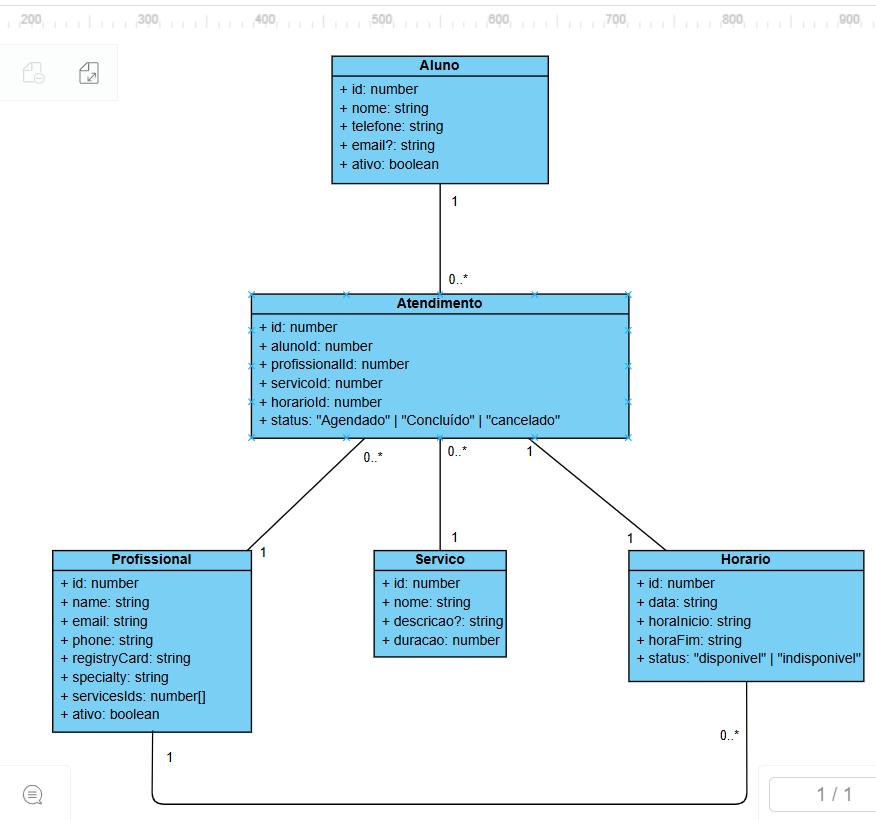
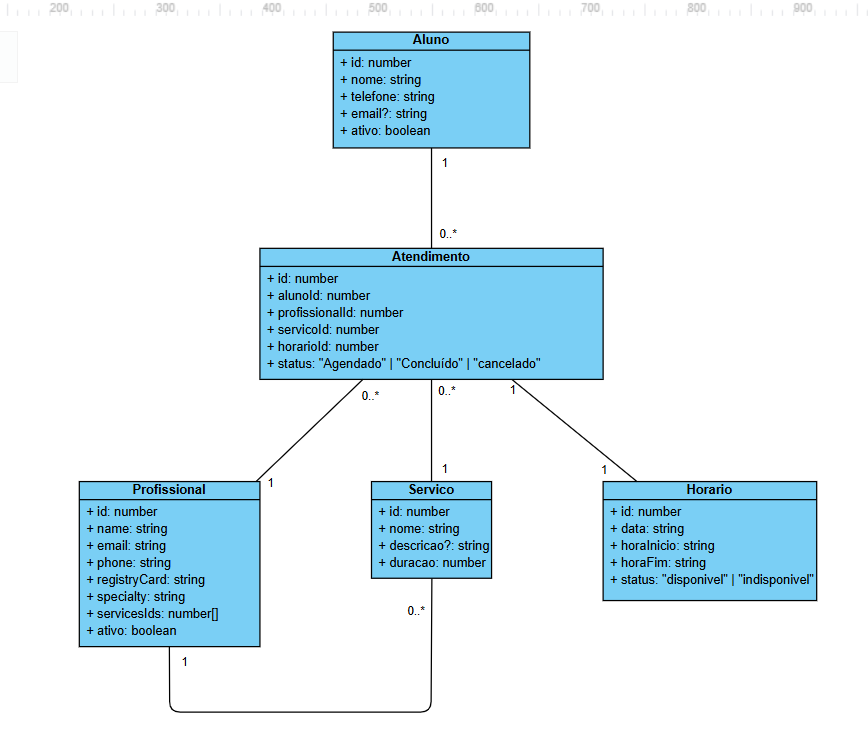
preparando api para deploy no render

diff --git a/api-clinica-escola/src/main.ts b/api-clinica-escola/src/main.ts
@@ -9,8 +9,14 @@ async function bootstrap() {
 
   app.use(cookieParser());
 
+  const defaultCorsOrigins = 'http://localhost:5500,http://127.0.0.1:5500';
+  const corsOrigins = (process.env.CORS_ORIGIN ?? defaultCorsOrigins)
+    .split(',')
+    .map((origin) => origin.trim())
+    .filter(Boolean);
+
   app.enableCors({
-    origin: ['http://localhost:5500', 'http://127.0.0.1:5500'],
+    origin: corsOrigins, 
     credentials: true,
   });
    
@@ -37,7 +43,9 @@ async function bootstrap() {
   const document = SwaggerModule.createDocument(app, config);
   SwaggerModule.setup('api', app, document); 
 
-  await app.listen(3000);
+  const port = Number(process.env.PORT ?? 3000);
+
+  await app.listen(port, '0.0.0.0');
 }
 
 bootstrap();

diff --git a/api-clinica-escola/src/app.controller.ts b/api-clinica-escola/src/app.controller.ts
@@ -1,12 +1,18 @@
 import { Controller, Get } from '@nestjs/common';
 import { AppService } from './app.service';
 
-// Controlador principal da aplicação, responsável por gerenciar os endpoints gerais
 @Controller()
 export class AppController {
   constructor(private readonly appService: AppService) {}
 
-  // Endpoint para retornar uma mensagem de saudação, utilizando o serviço principal da aplicação
+  @Get('health')
+  health() {
+    return {
+      status: 'ok',
+      timestamp: new Date().toISOString(),
+    };
+  }
+
   @Get()
   getHello(): string {
     return this.appService.getHello();

diff --git a/api-clinica-escola/src/autenticacao/strategies/jwt.strategy.ts b/api-clinica-escola/src/autenticacao/strategies/jwt.strategy.ts
@@ -17,7 +17,7 @@ export class JwtStrategy extends PassportStrategy(Strategy) {
 
       ignoreExpiration: false,
 
-      secretOrKey: configService.get<string>('JWT_SECRET'),
+      secretOrKey: configService.get<string>('JWT_SECRET')!,
     });
   }
 